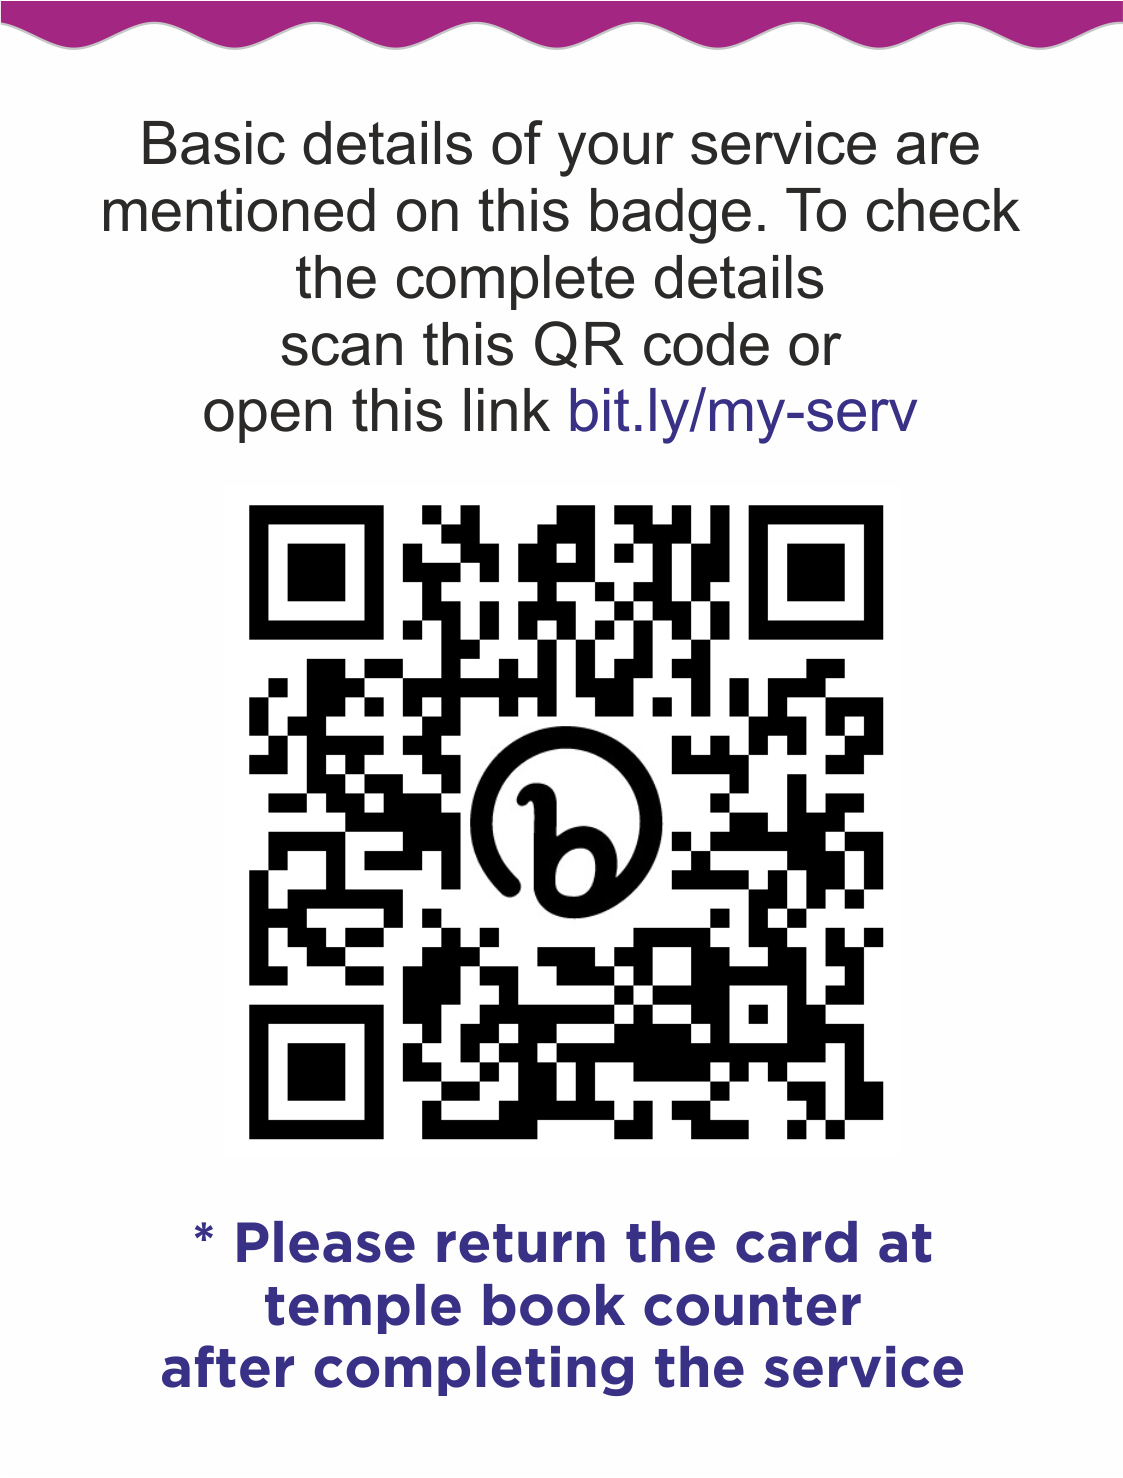
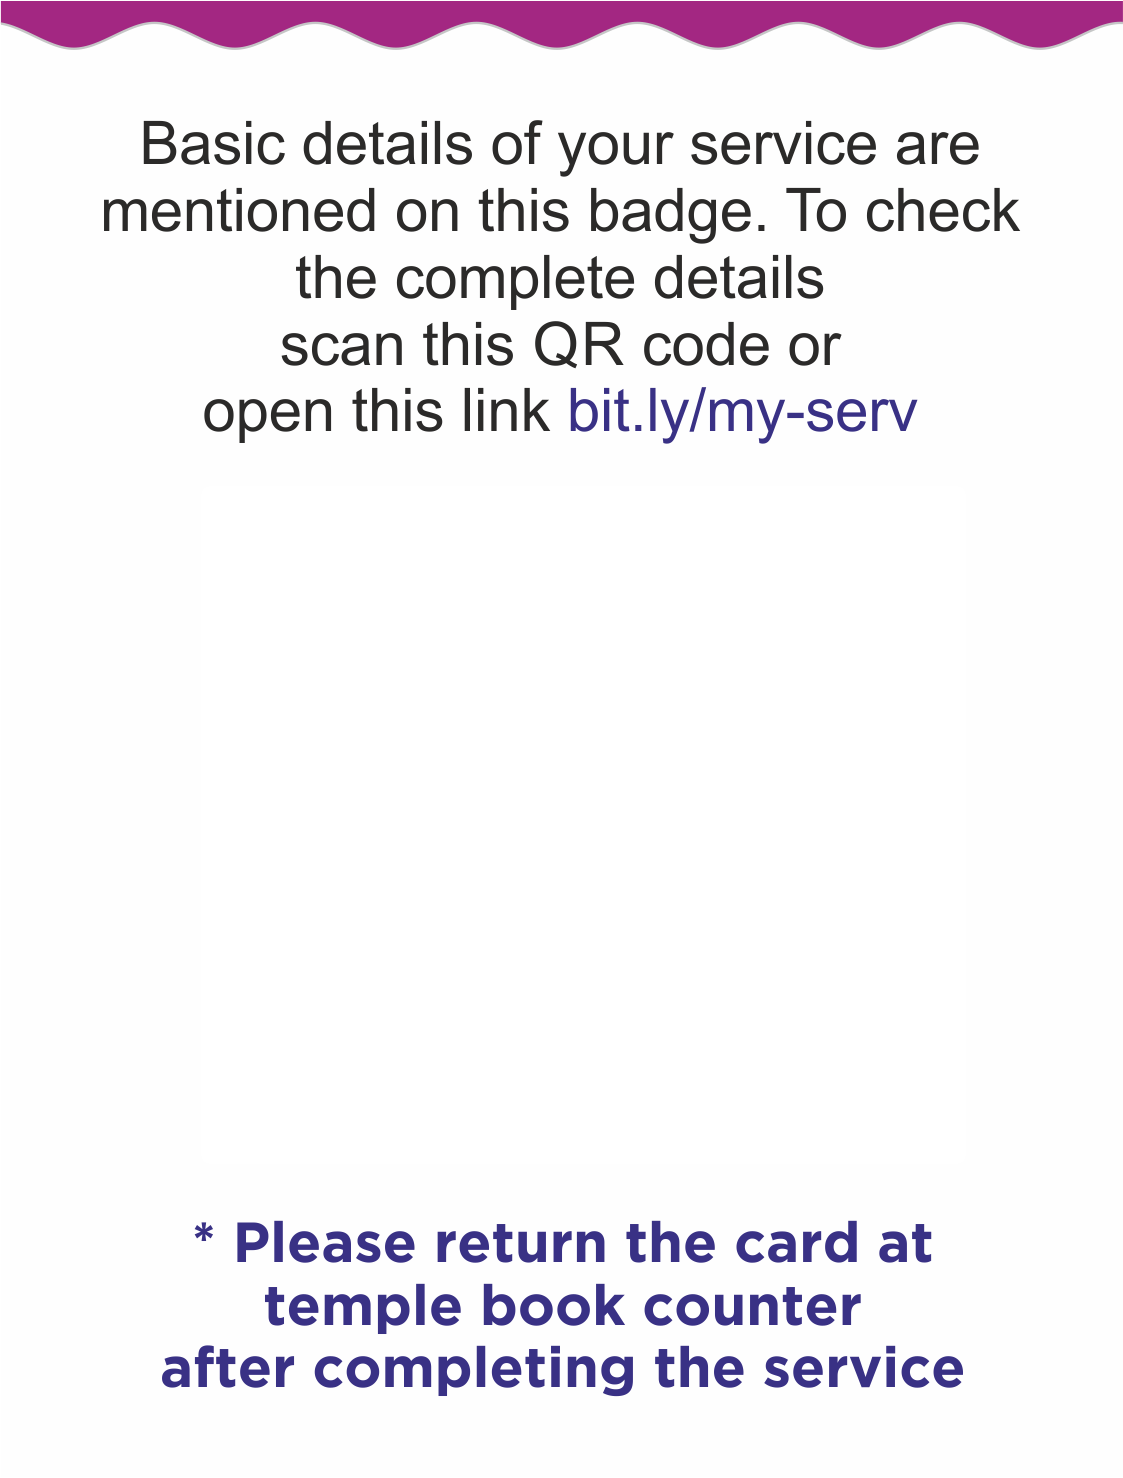
ok

Changed region(s): [[0.2182, 0.3424, 0.8103, 0.7781]]

diff --git a/app/vol/src/pages/util/badge-print/index.js b/app/vol/src/pages/util/badge-print/index.js
@@ -1,4 +1,5 @@
-import { useEffect, useRef, useState } from "react"
+import { useEffect, useState } from "react"
+import QRCode from 'qrcode.react';
 import "./index.css"
 
 const Badge = (props) =>{
@@ -13,20 +14,28 @@ const Badge = (props) =>{
                 width: '3.75in',
                 height: '5in'
             }}>
-                {!back?<div className="bp-details">
-                    <div className="bp-detail">
-                        <div className="bp-detail-label">NAME</div>
-                        <div className="bp-detail-text">{name}</div>
+                {!back?
+                    <div className="bp-details">
+                        <div className="bp-detail">
+                            <div className="bp-detail-label">NAME</div>
+                            <div className="bp-detail-text">{name}</div>
+                        </div>
+                        <div className="bp-detail">
+                            <div className="bp-detail-label">SEVA</div>
+                            <div className="bp-detail-text">{seva}</div>
+                        </div>
+                        <div className="bp-detail">
+                            <div className="bp-detail-label">SPOC</div>
+                            <div className="bp-detail-text">{spoc}</div>
+                        </div>
+                    </div>:
+                    <div className="bp-qr">
+                        <QRCode
+                            value={name?`https://vol.iskconmysore.org/vol?name=${name}`:`https://vol.iskconmysore.org/vol`}
+                            size={210}
+                        />
                     </div>
-                    <div className="bp-detail">
-                        <div className="bp-detail-label">SEVA</div>
-                        <div className="bp-detail-text">{seva}</div>
-                    </div>
-                    <div className="bp-detail">
-                        <div className="bp-detail-label">SPOC</div>
-                        <div className="bp-detail-text">{spoc}</div>
-                    </div>
-                </div>:null}
+                }
         </div>
     )
 }
@@ -50,11 +59,11 @@ const BadgePrint = (props)=>{
 
         let { volunteers, services } = data
         volunteers = volunteers.filter(v=>{
-            return !v.idCardWritten && v.volunteerName && v.volunteerPhone && v.service && v.date=="2023-11-14"
+            return !v.idCardWritten && v.volunteerName && v.volunteerPhone && v.service && v.date=="2023-12-23"
         })
 
         services = services.filter(s=>{
-            return s.date=="2023-11-14"
+            return s.date=="2023-12-23"
         })
     
         let volunteersMap = {}

diff --git a/app/vol/src/App.js b/app/vol/src/App.js
@@ -14,6 +14,7 @@ import AdminInfo from './pages/admin-info';
 import BadgeList from './pages/util/badge-list';
 import SPOCBLDLabel from './pages/util/coupon-label';
 import BadgePrint from './pages/util/badge-print';
+import Test from './pages/util/test/index.js';
 
 function App() {
 
@@ -55,6 +56,7 @@ function App() {
             <Route path="/util/badge-list" element={<BadgeList data={data} dates={dates}/>}></Route>
             <Route path="/util/badge-print" element={<BadgePrint data={data} dates={dates}/>}></Route>
             <Route path="/util/coupon-label" element={<SPOCBLDLabel data={data} dates={dates}/>}></Route>
+            <Route path="/util/test" element={<Test data={data} dates={dates}/>}></Route>
             <Route path="/" element={<Home/>}></Route>
           </Routes>
       </Router>

diff --git a/app/vol/src/pages/util/test/index.js b/app/vol/src/pages/util/test/index.js
@@ -1,0 +1,24 @@
+import { useEffect, useRef } from "react";
+import "./index.css"
+import QRCode from 'qrcode.react';
+
+const Test = (props) =>{
+
+    var qr = useRef()
+
+    return (
+        <div ref={qr}>
+            <QRCode
+                value={"https://vol.iskconmysore.org/vol?name=Abhishek R"}
+                size={512}
+                imageSettings={{
+                    src: "https://logowik.com/content/uploads/images/apple-black8038.jpg",
+                    excavate: true
+                }}
+            />
+        </div>
+    )
+}
+
+export default Test
+

diff --git a/app/vol/src/pages/util/badge-print/index.css b/app/vol/src/pages/util/badge-print/index.css
@@ -60,3 +60,12 @@
 
     border-bottom: .019in solid #393185b7;
 }
+
+.bp-qr {
+    display: flex;
+    align-items: center;
+    justify-content: center;
+
+    position: relative;
+    top: 1.7in;
+}
